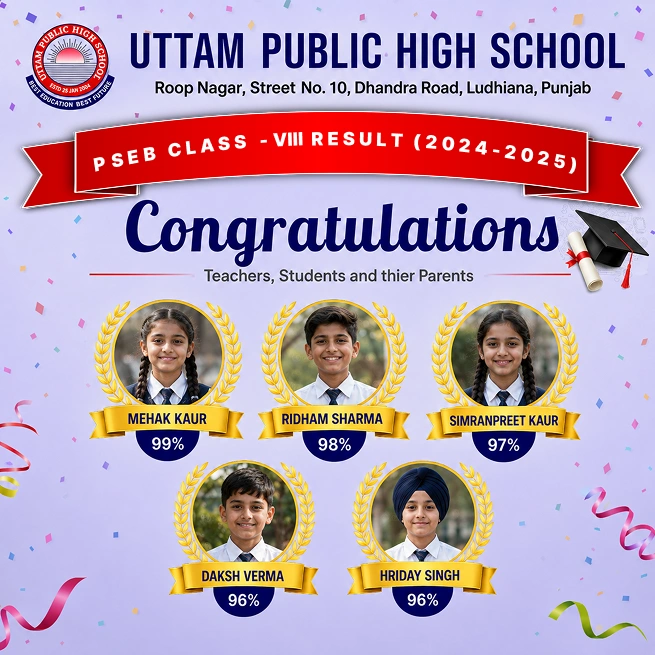
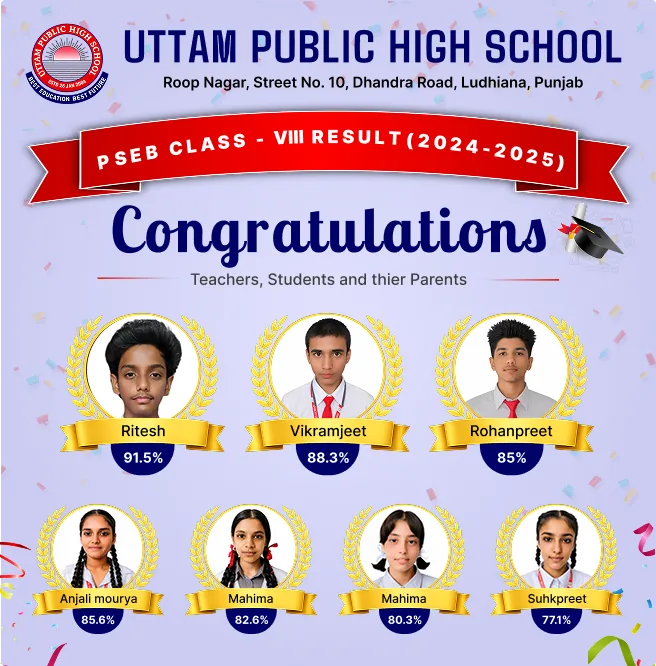
Update achievement posters with latest PSEB results
Replace both result posters in place. Class X moves to the 2025-2026
result and Class VIII to the current sheet, each now listing seven
students rather than five.

Converted from PNG to WebP on the way in: 536 KB -> 94 KB and 535 KB ->
99 KB, at their original dimensions.

Both images carried an empty alt attribute, so screen readers announced
nothing and the exam results were invisible to search. Describe each one
by class, result year and school.

Note the section heading still reads "Academic Achievers 2025" while the
Class X poster is now 2025-2026, and the artwork in both posters still
carries the old school name.

diff --git a/index.html b/index.html
@@ -267,8 +267,8 @@
     <div class="wrapper">
          <h2 class="text-center mt-md" data-reveal="fade-up">Academic <span class="highlight-red">Achievers 2025 </span></h2>
         <div class="gridx2">
-            <img src="Assets/Image/class 8th.webp" alt="" class="achivemnet-image">
-            <img src="Assets/Image/class 10th.webp" alt="" class="achivemnet-image">
+            <img src="Assets/Image/class 8th.webp" alt="PSEB Class VIII result 2024-2025 toppers at Uttam Public School, Ludhiana" class="achivemnet-image">
+            <img src="Assets/Image/class 10th.webp" alt="PSEB Class X result 2025-2026 toppers at Uttam Public School, Ludhiana" class="achivemnet-image">
         </div>
     </div>
 </section>
